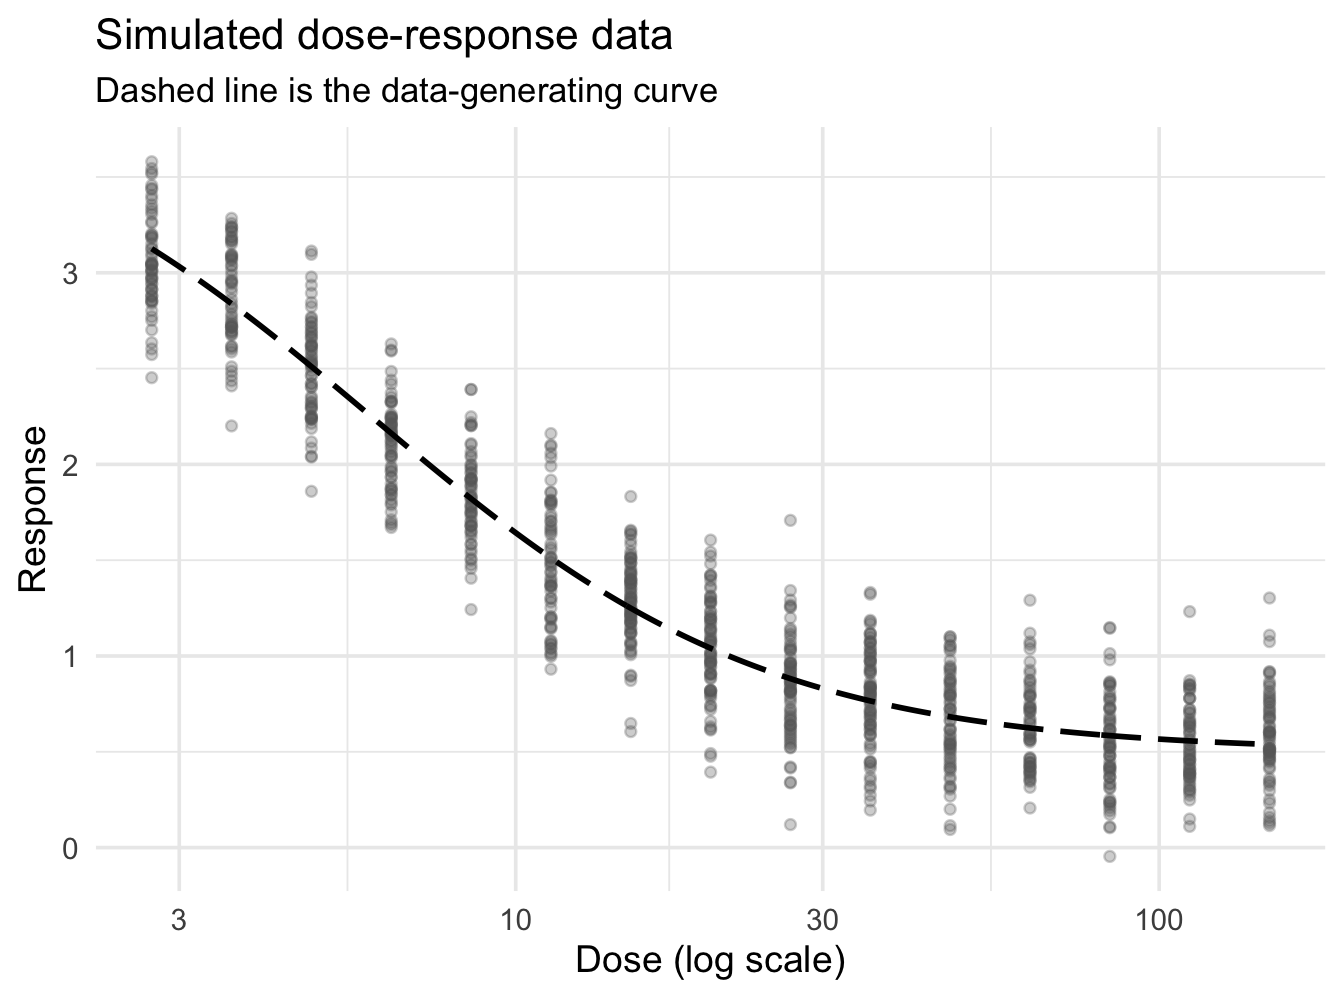
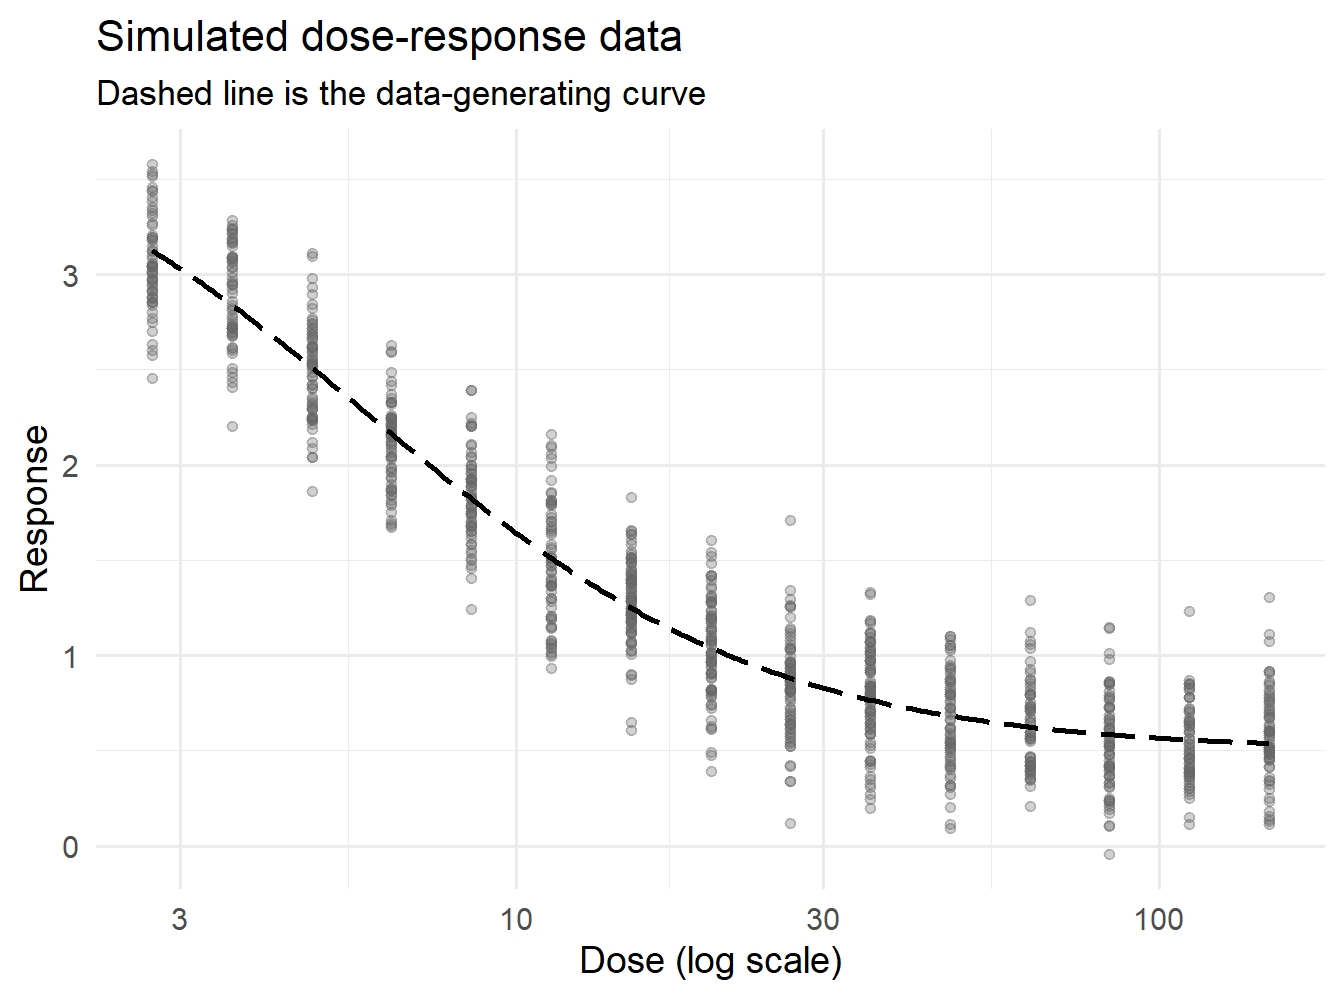
small fix

diff --git a/_slides/Assignment4B_slides.html b/_slides/Assignment4B_slides.html
@@ -209,7 +209,7 @@
 <section id="outline" class="slide level2 outline-slide center">
 <h2>Outline</h2>
 <ul>
-<li>Explaination of assignemt</li>
+<li>Explaination of assignment</li>
 <li>Implementation in R</li>
 <li>2D investigation</li>
 <li>Full performance comparision</li>
@@ -531,7 +531,7 @@ p_i
 \sum_{i \in I_n}
 \nabla L_i(\theta_n),
 \]</span></p>
-<p>where <span class="math inline">\(B_t\)</span> is a mini-batch of observations.</p>
+<p>where <span class="math inline">\(I_n\)</span> is a mini-batch of observations.</p>
 <ul>
 <li>Full batch:
 <ul>
@@ -961,42 +961,80 @@ r(10)\leq\frac{r(2.5)+r(17.5)}{2}.
       });
     </script>
     
+
     <script>
+
       // htmlwidgets need to know to resize themselves when slides are shown/hidden.
+
       // Fire the "slideenter" event (handled by htmlwidgets.js) when the current
+
       // slide changes (different for each slide format).
+
       (function () {
+
         // dispatch for htmlwidgets
+
         function fireSlideEnter() {
+
           const event = window.document.createEvent("Event");
+
           event.initEvent("slideenter", true, true);
+
           window.document.dispatchEvent(event);
+
         }
+
+    
 
         function fireSlideChanged(previousSlide, currentSlide) {
+
           fireSlideEnter();
 
+    
+
           // dispatch for shiny
+
           if (window.jQuery) {
+
             if (previousSlide) {
+
               window.jQuery(previousSlide).trigger("hidden");
+
             }
+
             if (currentSlide) {
+
               window.jQuery(currentSlide).trigger("shown");
+
             }
+
           }
+
         }
+
+    
 
         // hookup for slidy
+
         if (window.w3c_slidy) {
+
           window.w3c_slidy.add_observer(function (slide_num) {
+
             // slide_num starts at position 1
+
             fireSlideChanged(null, w3c_slidy.slides[slide_num - 1]);
+
           });
+
         }
 
+    
+
       })();
+
     </script>
+
+    
 
     <script id="quarto-html-after-body" type="application/javascript">
       window.document.addEventListener("DOMContentLoaded", function (event) {
